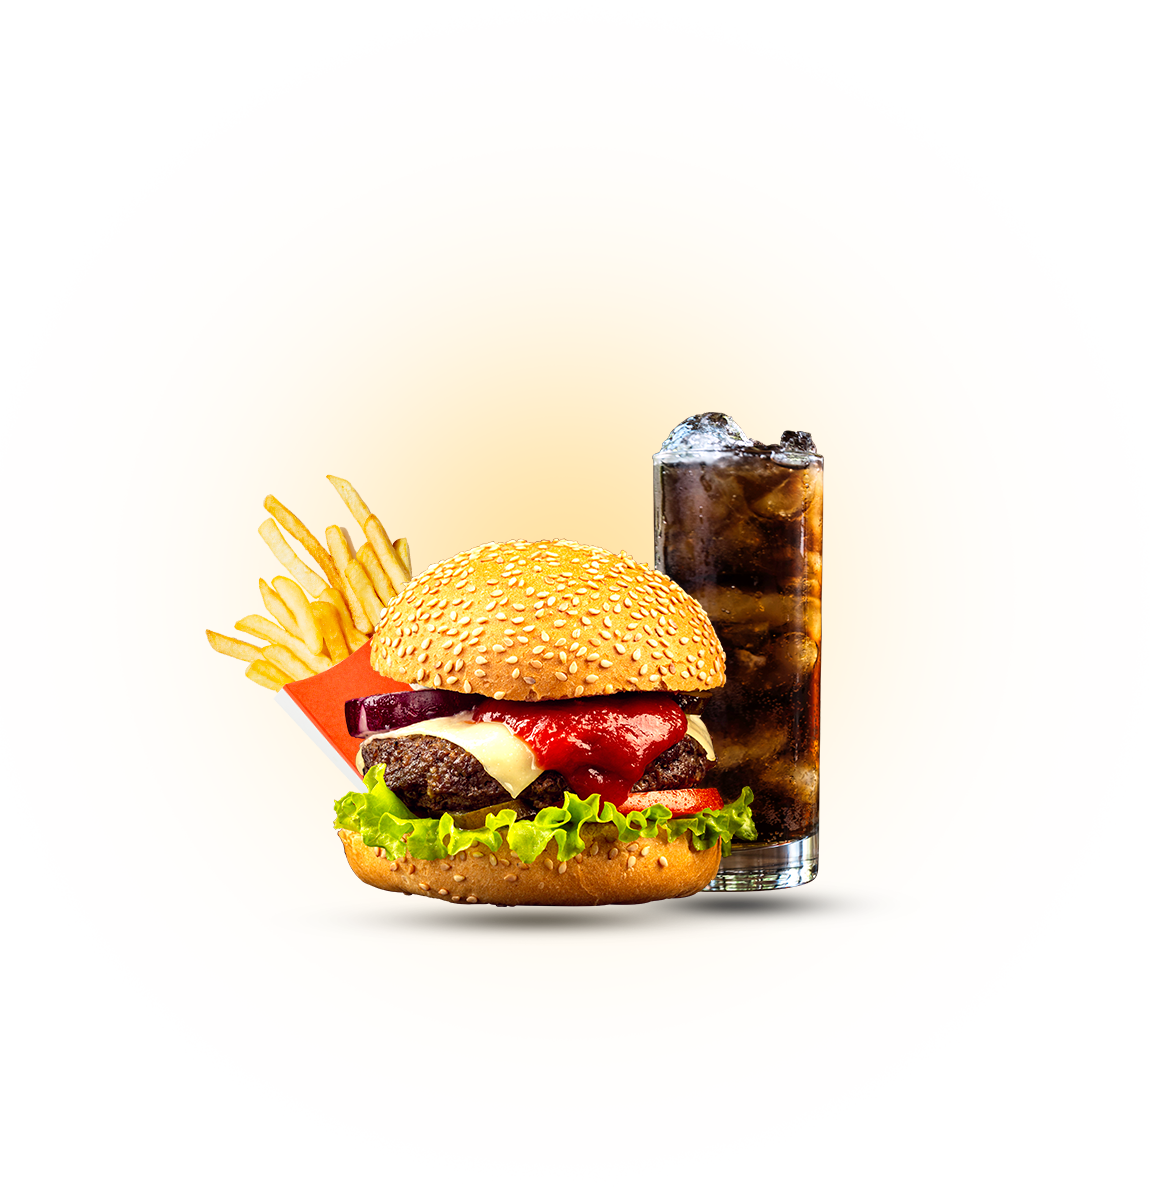
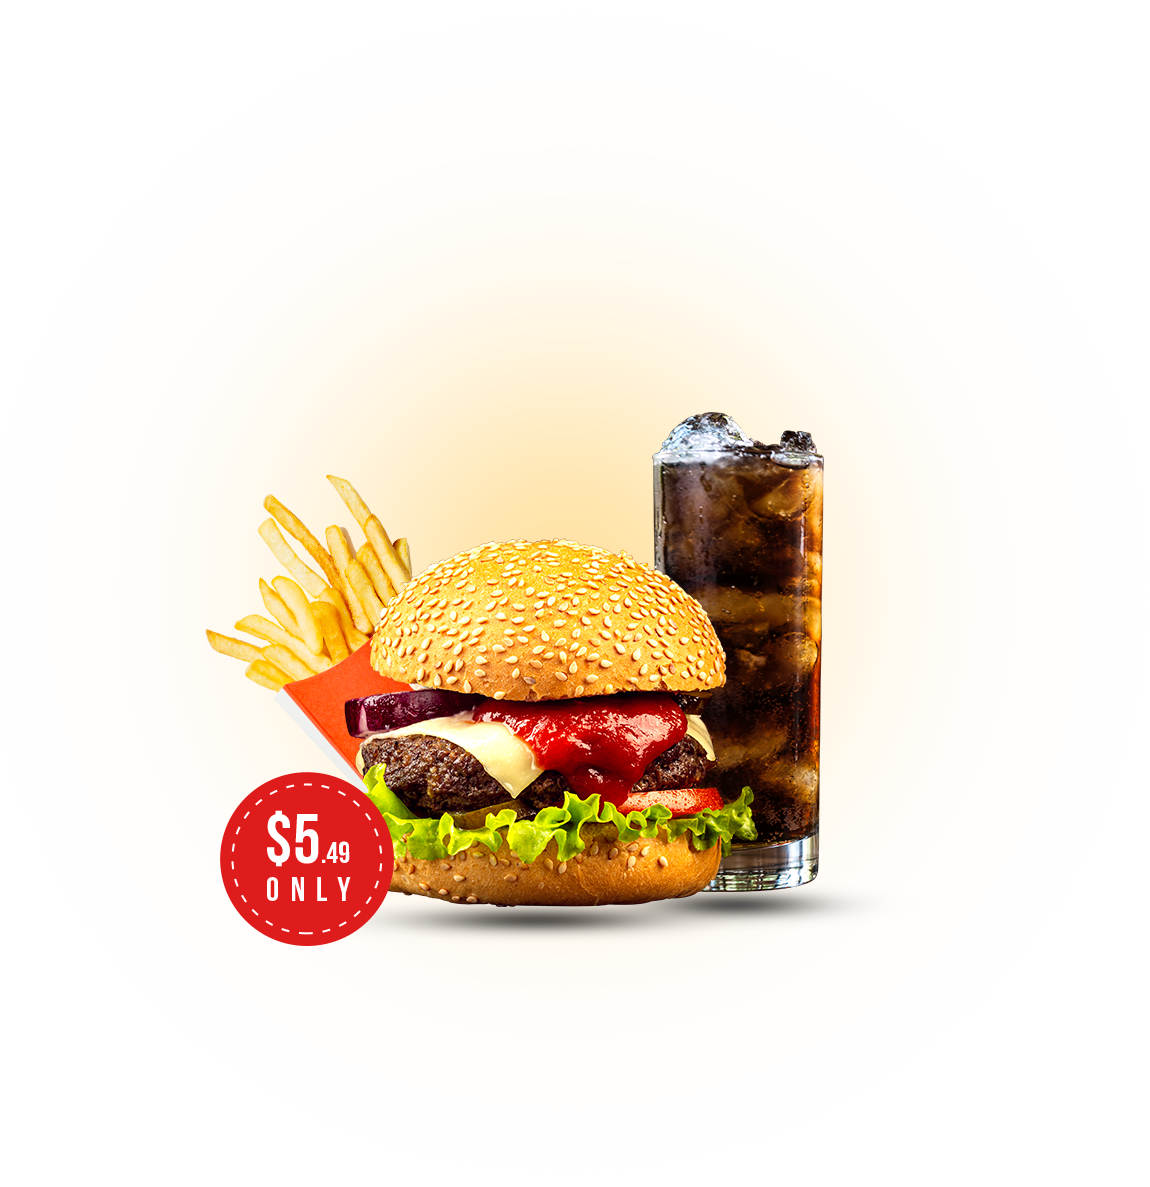
header

Changed region(s): [[0.1826, 0.6234, 0.3652, 0.8104], [0.4261, 0.7481, 0.5174, 0.7793]]

diff --git a/public/lib-admin/header.php b/public/lib-admin/header.php
@@ -1,0 +1,97 @@
+<h1 style="color:yellowgreen;font-size:16px;">lib-admin/header.php</h1>
+<?php
+$title = "Обработка header";
+require_once "./../blocks/header-top.php"
+?>
+<?php require_once "./../db.php" ?>
+
+<?php
+$subtitle = trim(filter_var($_POST['subtitle'], FILTER_SANITIZE_SPECIAL_CHARS));
+$rectangle = trim(filter_var($_POST["rectangle"], FILTER_SANITIZE_SPECIAL_CHARS));
+$title = trim(filter_var($_POST["title"], FILTER_SANITIZE_SPECIAL_CHARS));
+$suptitle = trim(filter_var($_POST["suptitle"], FILTER_SANITIZE_SPECIAL_CHARS));
+$fond = trim(filter_var($_POST["fond"], FILTER_SANITIZE_SPECIAL_CHARS));
+
+if (strlen($subtitle) <= 2) {
+  echo "phone error";
+  exit;
+}
+
+if (strlen($rectangle) <= 8) {
+  echo "num error";
+  exit;
+}
+
+if (strlen($title) <= 3) {
+  echo "express error";
+  exit;
+}
+
+if (strlen($suptitle) <= 2) {
+  echo "home error";
+  exit;
+}
+
+if (strlen($fond) <= 2) {
+  echo "menu error";
+  exit;
+}
+?>
+
+<?php
+$sql = 'SELECT * FROM header LIMIT 1';
+$stmt = $pdo->prepare($sql);
+$stmt->execute();
+$header = $stmt->fetch(PDO::FETCH_ASSOC);
+
+$id = $header['id'];
+if (!isset($filename)) {
+  $filename = $header['filename']; // По умолчанию оставляем старое имя файла
+}
+if (isset($_POST['save'])) {
+
+  // расширения для картинки которые нельзя будет загружать
+  $list = ['.html', '.zip', '.rar', '.js', '.php'];
+  // перебор на запрещенные файлы
+  foreach ($list as $item) {
+    if (preg_match("/$item$/", $_FILES['im']['name'])) exit("Расширение файла не подходит");
+  }
+  $type = @getimagesize($_FILES['im']['tmp_name']);
+
+  if ($type && ($type['mime'] != 'image/jpg' || $type['mime'] != 'image/jpeg')) {
+    if ($_FILES['im']['size'] < 1024 * 1000) {
+      $upload = './../image/nav/';
+      $filename = $_FILES['im']['name'];
+      $uploadPath = $upload . $filename;
+
+      if (move_uploaded_file($_FILES['im']['tmp_name'], $uploadPath)) echo "Файл загружен";
+      else echo "Ошибка при загрузке файла";
+    } else exit("Размер файла превышен");
+  } else exit("Тип файла не подходит");
+}
+?>
+<?php
+
+$sql = 'UPDATE header SET
+            subtitle=:subtitle, 
+            rectangle=:rectangle, 
+            title=:title, 
+            suptitle=:suptitle, 
+            fond=:fond, 
+            filename=:filename 
+             WHERE id=:id';  // Теперь WHERE снова работает
+
+$stmt = $pdo->prepare($sql);
+$stmt->execute([
+  'subtitle' => $subtitle,
+  'rectangle' => $rectangle,
+  'title' => $title,
+  'suptitle' => $suptitle,
+  'fond' => $fond,
+  'filename' => $filename,
+  'id' => $id      // Обязательно возвращаем id для WHERE
+]);
+echo '<meta http-equiv="refresh" content="1;url=/index.php">';
+exit;
+
+?>

diff --git a/public/admin-pages/header.php b/public/admin-pages/header.php
@@ -1,0 +1,90 @@
+<?php session_start() ?>
+<?php require_once "./../db.php"; ?>
+<?php
+$title = 'Редактирование главной страницы';
+require_once "./../blocks/header-top.php"
+?>
+
+<?php
+$sql = 'SELECT * FROM header';
+$sql = $pdo->prepare($sql);
+$sql->execute();
+$header = $sql->fetch(PDO::FETCH_ASSOC);
+?>
+
+
+<body style="background: linear-gradient(180deg, 
+#2a2d3e,
+#fecb6e);
+ min-height:100vh;">
+
+  <h3 style="color:#eeaf3bff; text-align: center; padding-top:50px;font-size: 35px">РЕДАКТИРОВАНИЕ ИНФОРМАЦИИ HEADER</h3>
+
+  <div style="font-size: 25px; color: #f1e608ff; text-align: center; padding-top:20px;">
+
+    <?php if (!empty($_SESSION['login'])) : ?>
+
+      <?php
+      echo "Аккуратненько &nbsp;" . $_SESSION['login'], ",&nbsp; аккуратненько."
+      ?>
+
+      <br><br><a href="./../logout.php" style="color:#f02b2bff">Выйти</a><br><br>
+
+      <style>
+        .lab {
+          font-style: italic;
+          font-size: 20px;
+        }
+
+        .inp {
+          padding: 10px 50px 10px 50px;
+          border-radius: 5px;
+        }
+      </style>
+      <form action="./../lib-admin/header.php" method="post" enctype="multipart/form-data">
+        <!--<input type="hidden" name="id" value="<?= $header['id'] ?>">-->
+
+        <div style="display:flex;justify-content: center;gap:50px;">
+          <div>
+            <label class="lab">subtitle</label><br>
+            <input class="inp" type="text" name="subtitle" value="<?= $header['subtitle'] ?>"><br><br>
+
+            <label class="lab">rectangle</label><br>
+            <input class="inp" type="text" name="rectangle" value="<?= $header['rectangle'] ?>"><br><br>
+
+            <label class="title">title</label><br>
+            <input class="inp" type="text" name="title" value="<?= $header['title'] ?>">
+
+          </div>
+          <div>
+            <label class="lab">suptitle</label><br>
+            <input class="inp" type="text" name="suptitle" value="<?= $header['suptitle'] ?>"><br><br>
+
+            <label class="lab">fond</label><br>
+            <input class="inp" type="text" name="fond" value="<?= $header['fond'] ?>"><br><br>
+
+          </div>
+          <div>
+            <input type="file" name="im"><br><br><br>
+
+            <input class="inp" style="color: yellow;  font-weight: 700; background-color:#7e7cc5ff" type="submit" name="save" value="СОХРАНИТЬ"><br><br><br><br>
+            <img src="./../image/header/<?= $header['picframe'] ?>" alt="logo">
+          </div>
+        </div>
+      </form>
+
+  </div>
+
+<?php else:
+      echo "<h3>НИ-НИ, НЕЛЬЗЯЯЯЯ</h3>"
+?>
+  <br><a href="./../logout.php" style="color:#f02b2bff">ВЫЙТИ</a>
+
+  <!-- ПРОДОЛЖЕНИЕ СОКРАЩЕННОЙ ЗАПИСИ Т.Е. ЗАКРЫВАЕМ-->
+<?php endif ?>
+
+</div>
+
+</body>
+
+</html>

diff --git a/public/index.php b/public/index.php
@@ -1,26 +1,34 @@
-<?php require_once "./pages/nav.php";?>
+<?php require_once "./db.php" ?>
+<?php
+$sql = "SELECT * FROM header";
+$sql = $pdo->prepare($sql);
+$sql->execute();
+$header = $sql->fetch(PDO::FETCH_ASSOC);
+?>
 
-  <header class="header">
-    <div class="container">
-      <div class="header__row" style="background-image: url('./image/header/bg.jpg');">
-        <div class="header__row">
-          <div class="header__info">
-            <div class="header__subtitle">It is a good time for the great taste of burgers</div>
-            <img class="sub-retangle" src="./image/header/subtitle-rectangle.png" alt="restangle">
-            <h1 class="header__title">Burger</h1>
-            <div class="header__suptitle">Week</div>
-          </div><!--header__info-->
+<?php require_once "./pages/nav.php"; ?>
 
-          <div class="header-img">
-            <img src="./image/header/burger-1.png" alt="">
-          </div>
+<header class="header">
+  <div class="container">
+    <div class="header__row" style="background-image: url('./image/header/<?= $header['fond'] ?>');">
+      <div class="header__row">
+        <div class="header__info">
+          <div class="header__subtitle"><?= $header['subtitle'] ?></div>
+          <img class="sub-retangle" src="./image/header/<?= $header['rectangle'] ?>" alt="restangle">
+          <h1 class="header__title"><?= $header['title'] ?></h1>
+          <div class="header__suptitle"><?= $header['suptitle'] ?></div>
+        </div><!--header__info-->
 
-        </div><!--header__row-->
-      </div><!--container-->
-  </header>
+        <div class="header-img">
+          <img src="./image/header/<?= $header['filename'] ?>" alt="burger">
+        </div>
 
-<?php require_once "./pages/burger.php"?>
-<?php require_once "./pages/choce.php"?>
-<?php require_once "./pages/discover.php"?>
-<?php require_once "./pages/reservation.php"?>
- <?php require_once "./pages/footer.php"?>
+      </div><!--header__row-->
+    </div><!--container-->
+</header>
+
+<?php require_once "./pages/burger.php" ?>
+<?php require_once "./pages/choce.php" ?>
+<?php require_once "./pages/discover.php" ?>
+<?php require_once "./pages/reservation.php" ?>
+<?php require_once "./pages/footer.php" ?>

diff --git a/public/admin.php b/public/admin.php
@@ -32,7 +32,8 @@ require_once "./blocks/header-top.php"
         }
       </style>
       <a class="page" href="./admin-pages/nav.php">Nav</a> |
-      <a class="page" href="./lib-editing/burger.php">Burger</a> |
+      <a class="page" href="./admin-pages/header.php">Header</a> |
+      <a class="page" href="./admin-pages/burger.php">Burger</a> |
       <a class="page" href="./lib-editing/choce.php">Choce</a> |
       <a class="page" href="./lib-editing/discover.php">Discover</a> |
       <a class="page" href="./lib-editing/reservation.php">Reservation</a> |